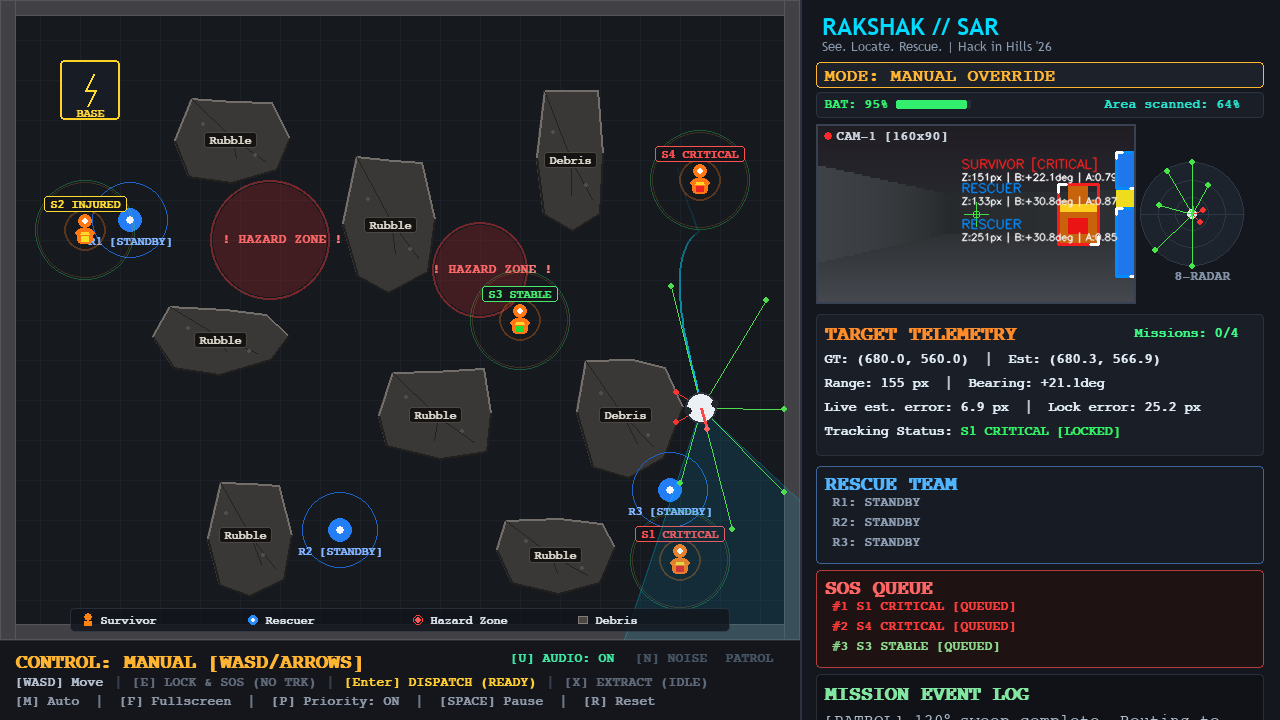
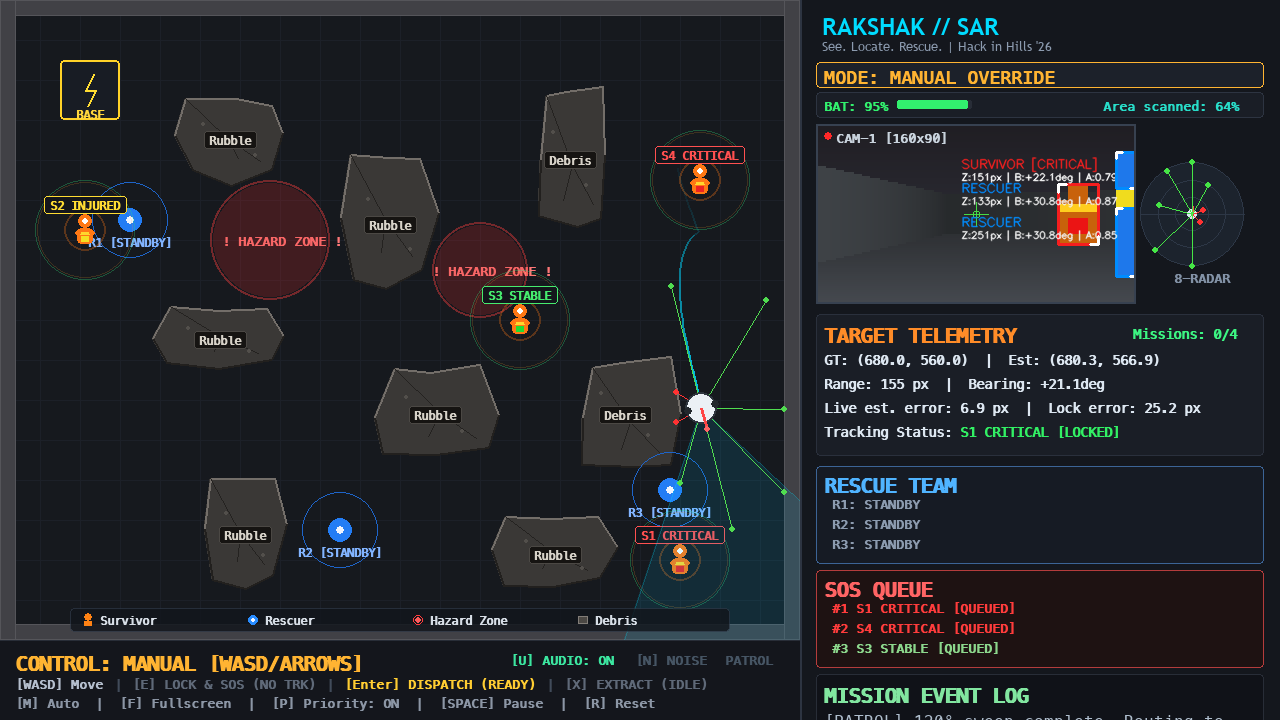
UI polish 2: label clamping, glyph fix, telemetry reset

diff --git a/app.py b/app.py
@@ -146,17 +146,19 @@ class RakshakApp:
 
     def _init_fonts(self):
         """Initializes system fonts with generous sizes for high readability in 720p video."""
+        mono_fonts = "menlo,monaco,consolas,dejavusansmono,monospace"
+        ui_sans = "trebuchetms,helvetica,arial,sans-serif"
         try:
-            self.font_title = pygame.font.SysFont("trebuchetms", 24, bold=True)
-            self.font_subtitle = pygame.font.SysFont("trebuchetms", 13)
-            self.font_badge = pygame.font.SysFont("consolas", 18, bold=True)
-            self.font_label = pygame.font.SysFont("consolas", 20, bold=True)
-            self.font_mono = pygame.font.SysFont("consolas", 14, bold=True)
-            self.font_log = pygame.font.SysFont("consolas", 16)
-            self.font_small = pygame.font.SysFont("consolas", 13, bold=True)
-            self.font_banner_title = pygame.font.SysFont("trebuchetms", 34, bold=True)
-            self.font_banner_sub = pygame.font.SysFont("consolas", 18, bold=True)
-            self.font_legend = pygame.font.SysFont("consolas", 12, bold=True)
+            self.font_title = pygame.font.SysFont(ui_sans, 24, bold=True)
+            self.font_subtitle = pygame.font.SysFont(ui_sans, 13)
+            self.font_badge = pygame.font.SysFont(mono_fonts, 18, bold=True)
+            self.font_label = pygame.font.SysFont(mono_fonts, 20, bold=True)
+            self.font_mono = pygame.font.SysFont(mono_fonts, 14, bold=True)
+            self.font_log = pygame.font.SysFont(mono_fonts, 16)
+            self.font_small = pygame.font.SysFont(mono_fonts, 13, bold=True)
+            self.font_banner_title = pygame.font.SysFont(ui_sans, 34, bold=True)
+            self.font_banner_sub = pygame.font.SysFont(mono_fonts, 18, bold=True)
+            self.font_legend = pygame.font.SysFont(mono_fonts, 12, bold=True)
         except Exception:
             self.font_title = pygame.font.Font(None, 26)
             self.font_subtitle = pygame.font.Font(None, 14)
@@ -787,6 +789,7 @@ class RakshakApp:
 
         # Target Survivors: person icon with triage tags and pulsing beacon ring
         survivors = self.arena.survivors if hasattr(self.arena, "survivors") and self.arena.survivors else [self.arena.survivor]
+        placed_surv_label_rects = []
         for surv in survivors:
             sx, sy = int(surv.x), int(surv.y)
 
@@ -828,7 +831,7 @@ class RakshakApp:
 
             # Survivor text label with dark pill background: "S1 CRITICAL", etc.
             if is_done:
-                surv_text = f"{surv.id} SECURED ✓"
+                surv_text = f"{surv.id} SECURED"
                 lbl_col = (60, 245, 140)
             else:
                 surv_text = f"{surv.id} {triage_lvl}"
@@ -838,10 +841,41 @@ class RakshakApp:
 
             lbl_s = self.font_legend.render(surv_text, True, lbl_col)
             lw, lh = lbl_s.get_width() + 12, lbl_s.get_height() + 4
-            lx = sx - lw // 2
-            ly = sy - 34
-            pygame.draw.rect(self.screen, (20, 22, 28), (lx, ly, lw, lh), border_radius=3)
-            pygame.draw.rect(self.screen, lbl_col, (lx, ly, lw, lh), 1, border_radius=3)
+
+            # Candidate label positions: above, below, further above, further below, left, right
+            cand_offsets = [
+                (0, -34),              # standard above
+                (0, 24),               # below survivor
+                (0, -52),              # higher above
+                (0, 42),               # further below
+                (-lw // 2 - 14, -10),  # left of survivor
+                (lw // 2 + 14, -10),   # right of survivor
+            ]
+
+            chosen_rect = None
+            for dx, dy in cand_offsets:
+                cx = max(4, min(self.ARENA_WIDTH - lw - 4, sx - lw // 2 + dx))
+                cy = max(4, min(self.ARENA_HEIGHT - lh - 4, sy + dy))
+                cand_rect = pygame.Rect(cx, cy, lw, lh)
+                conflict = False
+                for pr in placed_surv_label_rects:
+                    if cand_rect.inflate(8, 8).colliderect(pr):
+                        conflict = True
+                        break
+                if not conflict:
+                    chosen_rect = cand_rect
+                    break
+
+            if chosen_rect is None:
+                lx = max(4, min(self.ARENA_WIDTH - lw - 4, sx - lw // 2))
+                ly = max(4, min(self.ARENA_HEIGHT - lh - 4, sy - 34))
+                chosen_rect = pygame.Rect(lx, ly, lw, lh)
+
+            placed_surv_label_rects.append(chosen_rect)
+            lx, ly = chosen_rect.x, chosen_rect.y
+
+            pygame.draw.rect(self.screen, (20, 22, 28), chosen_rect, border_radius=3)
+            pygame.draw.rect(self.screen, lbl_col, chosen_rect, 1, border_radius=3)
             self.screen.blit(lbl_s, (lx + 6, ly + 2))
 
         # Robot Comet Trail: last ~4s with fading alpha
@@ -1257,8 +1291,26 @@ class RakshakApp:
         self.screen.blit(m_surf, (hud_x + hud_w - 32 - m_surf.get_width() - 10, curr_y + 12))
 
         st = self.tracker.survivor_track
-        gt_x, gt_y = None, None
+        # Reset telemetry if track has already been secured
         if st is not None:
+            is_sec = getattr(st, "is_secured", False)
+            if not is_sec:
+                if hasattr(self.fsm, "dispatch_manager") and st.target_id in self.fsm.dispatch_manager.completed_sos:
+                    is_sec = True
+                elif hasattr(self.arena, "survivors"):
+                    for s in self.arena.survivors:
+                        if s.id == st.target_id and (s.is_rescued or getattr(s, "is_secured", False)):
+                            is_sec = True
+                            break
+            if is_sec:
+                st.is_secured = True
+                self.tracker.clear_rescue_target(st.target_id)
+                st = self.tracker.survivor_track
+                if st is not None and getattr(st, "is_secured", False):
+                    st = None
+
+        gt_x, gt_y = None, None
+        if st is not None and not getattr(st, "is_secured", False):
             matched_surv = self.arena.get_active_survivor(tracker=self.tracker, fsm=self.fsm)
             gt_x, gt_y = (matched_surv.x, matched_surv.y) if matched_surv else (0.0, 0.0)
             err_px = math.hypot(st.est_world_x - gt_x, st.est_world_y - gt_y)

diff --git a/detector.py b/detector.py
@@ -316,22 +316,26 @@ class VisionDetector:
             # Clamped label coordinates with overlap avoidance
             label_x = max(6, min(sx, feed.shape[1] - 175))
 
-            # Candidate vertical positions: above box, below box, further above, further below
+            # Candidate vertical positions:
+            # Keep labels at y >= 30 (never overlap CAM-1 header) and inside frame.
+            # If box is too close to top (sy < 46), draw inside the box or below it.
             candidates = []
-            if sy >= 30:
-                candidates.append((sy - 16, sy - 4))
-                candidates.append((sy + sh + 14, sy + sh + 26))
-                candidates.append((sy - 42, sy - 30))
-                candidates.append((sy + sh + 40, sy + sh + 52))
+            if sy >= 46:
+                candidates.append((sy - 16, sy - 4))          # above box
+                candidates.append((sy + sh + 14, sy + sh + 26))  # below box
+                candidates.append((max(30, sy + 14), max(30, sy + 14) + 12))  # inside box
+                candidates.append((sy + sh + 38, sy + sh + 50))  # further below
+                if sy - 42 >= 30:
+                    candidates.append((sy - 42, sy - 30))     # further above
             else:
-                candidates.append((sy + sh + 14, sy + sh + 26))
-                candidates.append((sy + sh + 40, sy + sh + 52))
-                candidates.append((sy - 16, sy - 4))
-                candidates.append((sy - 42, sy - 30))
+                candidates.append((sy + sh + 14, sy + sh + 26))  # below box
+                candidates.append((max(30, sy + 14), max(30, sy + 14) + 12))  # inside box
+                candidates.append((sy + sh + 38, sy + sh + 50))  # further below
+                candidates.append((max(30, sy + 28), max(30, sy + 28) + 12))  # further inside
 
             chosen_ty1, chosen_ty2 = None, None
             for c_ty1, c_ty2 in candidates:
-                if c_ty1 < 14 or c_ty2 > feed.shape[0] - 3:
+                if c_ty1 < 30 or c_ty2 > feed.shape[0] - 4:
                     continue
                 conflict = False
                 for px, py1, py2 in placed_labels:
@@ -344,12 +348,15 @@ class VisionDetector:
 
             if chosen_ty1 is None:
                 for c_ty1, c_ty2 in candidates:
-                    if c_ty1 >= 14 and c_ty2 <= feed.shape[0] - 3:
+                    if c_ty1 >= 30 and c_ty2 <= feed.shape[0] - 4:
                         chosen_ty1, chosen_ty2 = c_ty1, c_ty2
                         break
                 if chosen_ty1 is None:
-                    chosen_ty1 = max(14, min(sy - 16, feed.shape[0] - 16))
+                    chosen_ty1 = max(30, min(feed.shape[0] - 16, sy + sh + 14))
                     chosen_ty2 = chosen_ty1 + 12
+                    if chosen_ty2 > feed.shape[0] - 4:
+                        chosen_ty2 = feed.shape[0] - 4
+                        chosen_ty1 = max(30, chosen_ty2 - 12)
 
             placed_labels.append((label_x, chosen_ty1, chosen_ty2))
             ty1, ty2 = chosen_ty1, chosen_ty2

diff --git a/fsm.py b/fsm.py
@@ -334,7 +334,24 @@ class MissionFSM:
         sec_count = 0
         if self.dispatch_manager.completed_sos:
             sec_count = len(set(s.survivor_id for s in self.dispatch_manager.completed_sos.values()))
+            for sid in self.dispatch_manager.completed_sos:
+                if hasattr(self.arena, "survivors"):
+                    for s in self.arena.survivors:
+                        if s.id == sid:
+                            s.is_secured = True
+                            s.is_rescued = True
+                if sid in self.tracker.survivor_tracks:
+                    self.tracker.survivor_tracks[sid].is_secured = True
+                if self.tracker.active_track_id == sid:
+                    self.tracker.clear_rescue_target(sid)
+
         if hasattr(self.arena, "survivors") and self.arena.survivors:
+            for s in self.arena.survivors:
+                if getattr(s, "is_secured", False):
+                    if s.id in self.tracker.survivor_tracks:
+                        self.tracker.survivor_tracks[s.id].is_secured = True
+                    if self.tracker.active_track_id == s.id:
+                        self.tracker.clear_rescue_target(s.id)
             arena_sec = sum(1 for s in self.arena.survivors if getattr(s, "is_secured", False))
             sec_count = max(sec_count, arena_sec)
 

diff --git a/rescuer.py b/rescuer.py
@@ -260,8 +260,14 @@ class RescuerAgent:
                 # Mark survivor secured based on physical proximity at extraction site
                 target_s = None
                 if arena.survivors:
-                    target_s = min(arena.survivors, key=lambda s: math.hypot(s.x - self.x, s.y - self.y))
-                    if math.hypot(target_s.x - self.x, target_s.y - self.y) < 65.0:
+                    if self.assigned_survivor_id:
+                        for s in arena.survivors:
+                            if s.id == self.assigned_survivor_id:
+                                target_s = s
+                                break
+                    if target_s is None:
+                        target_s = min(arena.survivors, key=lambda s: math.hypot(s.x - self.x, s.y - self.y))
+                    if target_s is not None:
                         target_s.is_rescued = True
                         target_s.is_secured = True
                         actual_id = target_s.id

diff --git a/tracker.py b/tracker.py
@@ -115,8 +115,12 @@ class VisionTracker:
 
     def clear_rescue_target(self, track_id: Optional[str] = None):
         """Atomically clears active per-rescue tracking state upon rescue completion."""
-        if track_id and track_id in self.survivor_tracks:
-            self.survivor_tracks[track_id].is_secured = True
+        if track_id:
+            if track_id in self.survivor_tracks:
+                self.survivor_tracks[track_id].is_secured = True
+            for trk in self.survivor_tracks.values():
+                if trk.target_id == track_id:
+                    trk.is_secured = True
         elif self.active_track_id and self.active_track_id in self.survivor_tracks:
             self.survivor_tracks[self.active_track_id].is_secured = True
 
